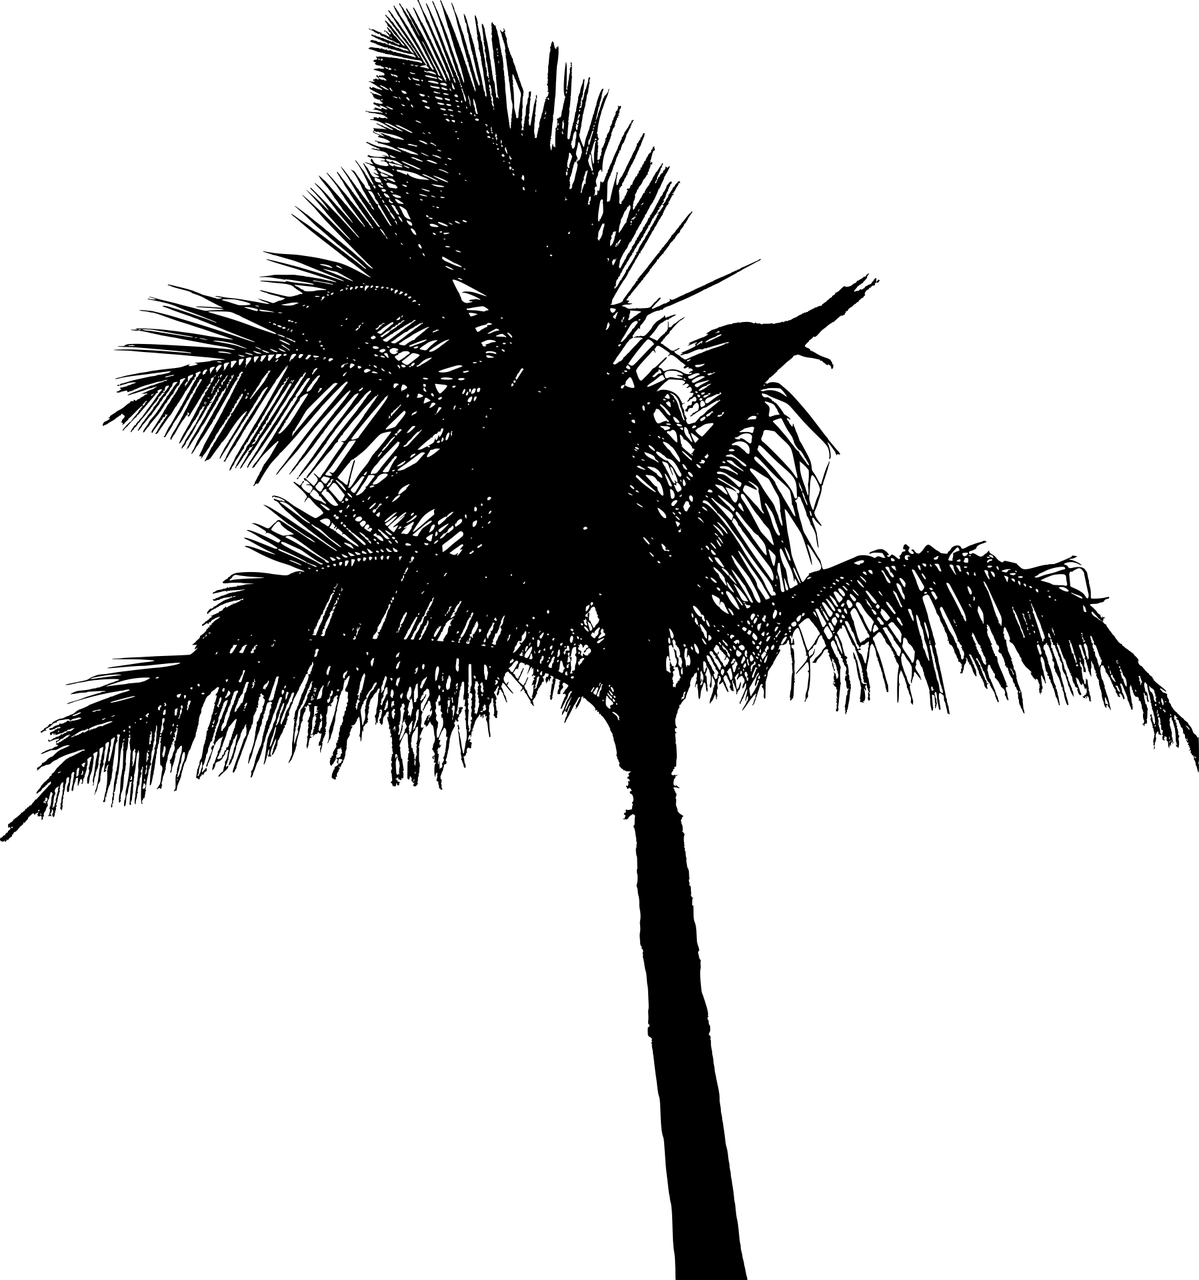
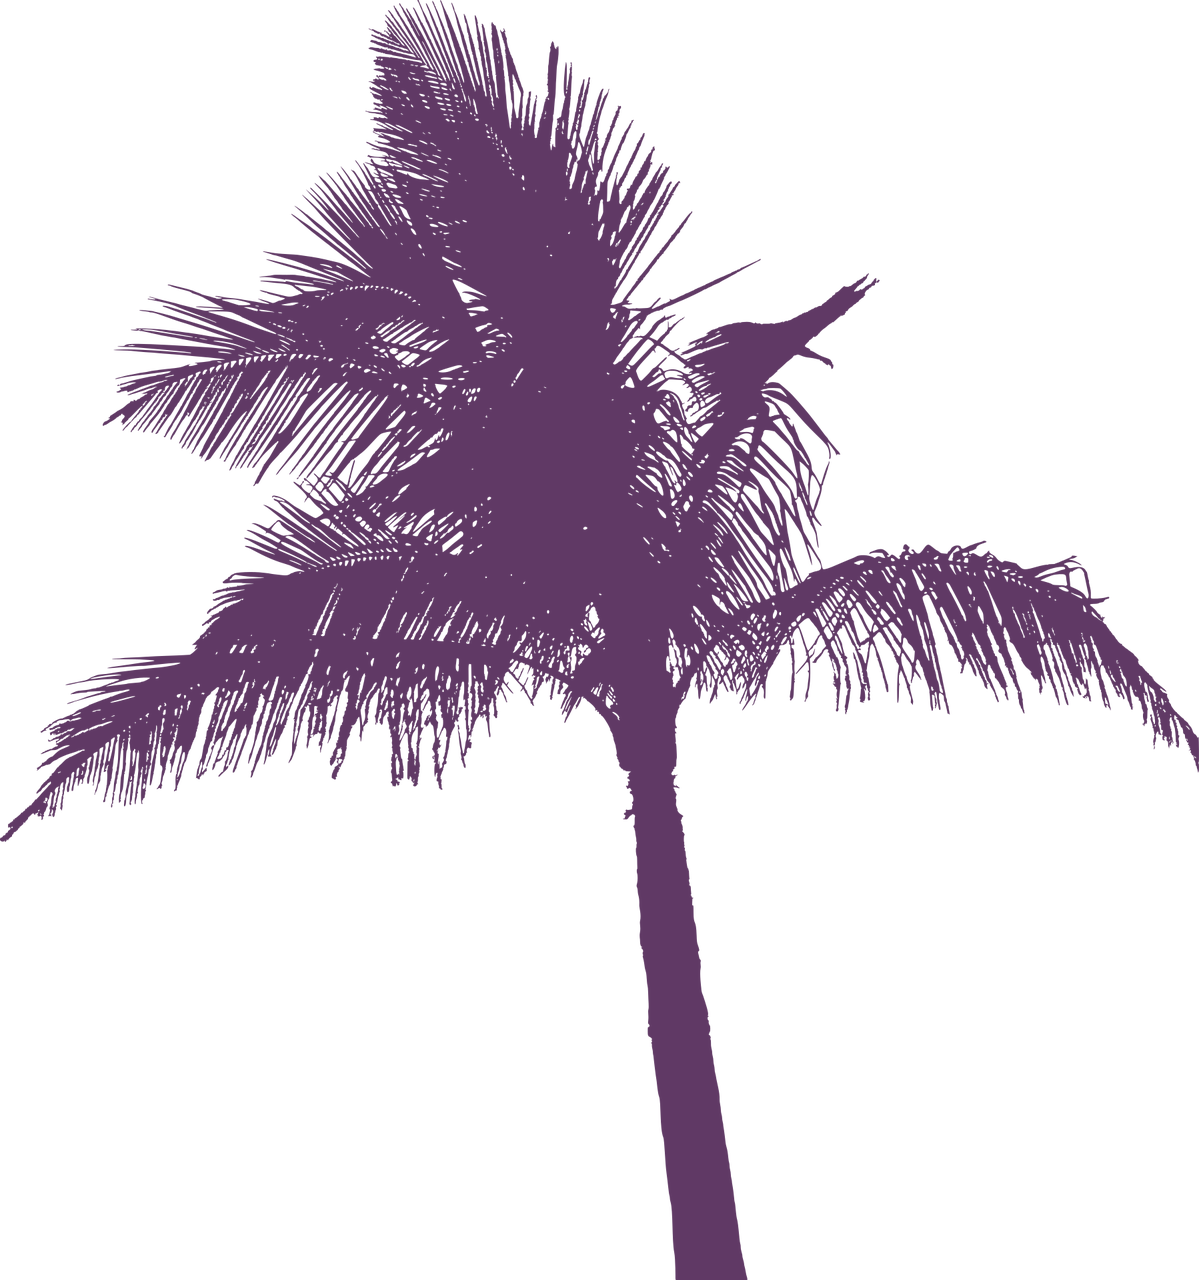
agregado de figuras

Changed region(s): [[0.0, 0.0, 1.0, 1.0]]

diff --git a/css/main.css b/css/main.css
@@ -7,30 +7,17 @@ main {
 }
 
 .palm1 {
-  width: 100vw;
   height: 100vh;
-  background-color: #603965;
-  -webkit-mask: url('img/palm.png') no-repeat center;
-  -webkit-mask-size: contain;
-  mask: url('img/palm.png') no-repeat center;
-  mask-size: contain;
   position: absolute;
-  left: 750px;
+  left: 80%;
   bottom: -100px;
-  background-color: red;
 }
 
 .palm2 {
-  width: 100vw;
   height: 100vh;
-  background-color: #603965;
-  -webkit-mask: url('img/palm2.png') no-repeat center;
-  -webkit-mask-size: contain;
-  mask: url('img/palm2.png') no-repeat center;
-  mask-size: contain;
   position: absolute;
-  left: -870px;
-  bottom: -80px;
+  right: 80%;
+  bottom: -40px;
 }
 
 /*------ INICIO ------*/
@@ -112,8 +99,8 @@ html.dark .bienvenida-text {
   }
 
   .palm2 {
-     left: -60%;
-     bottom: -120px;
+    right: 40%;
+    bottom: -100px;
   }
 
   .inicio {

diff --git a/index.html b/index.html
@@ -78,7 +78,8 @@
     <main>
         <!--INICIO-->
         <section class="inicio" id="inicio">
-            <div class="palm1"></div>
+            <img src="img/palm.png" class="palm1"/>
+            <img src="img/palm2.png" class="palm2"/>
             <div class="palm2"></div>
             <h2><span class="hola">¡Hola!</span> Soy Jairo,</h2>
             <p class="especialidad">Desarrollador 
